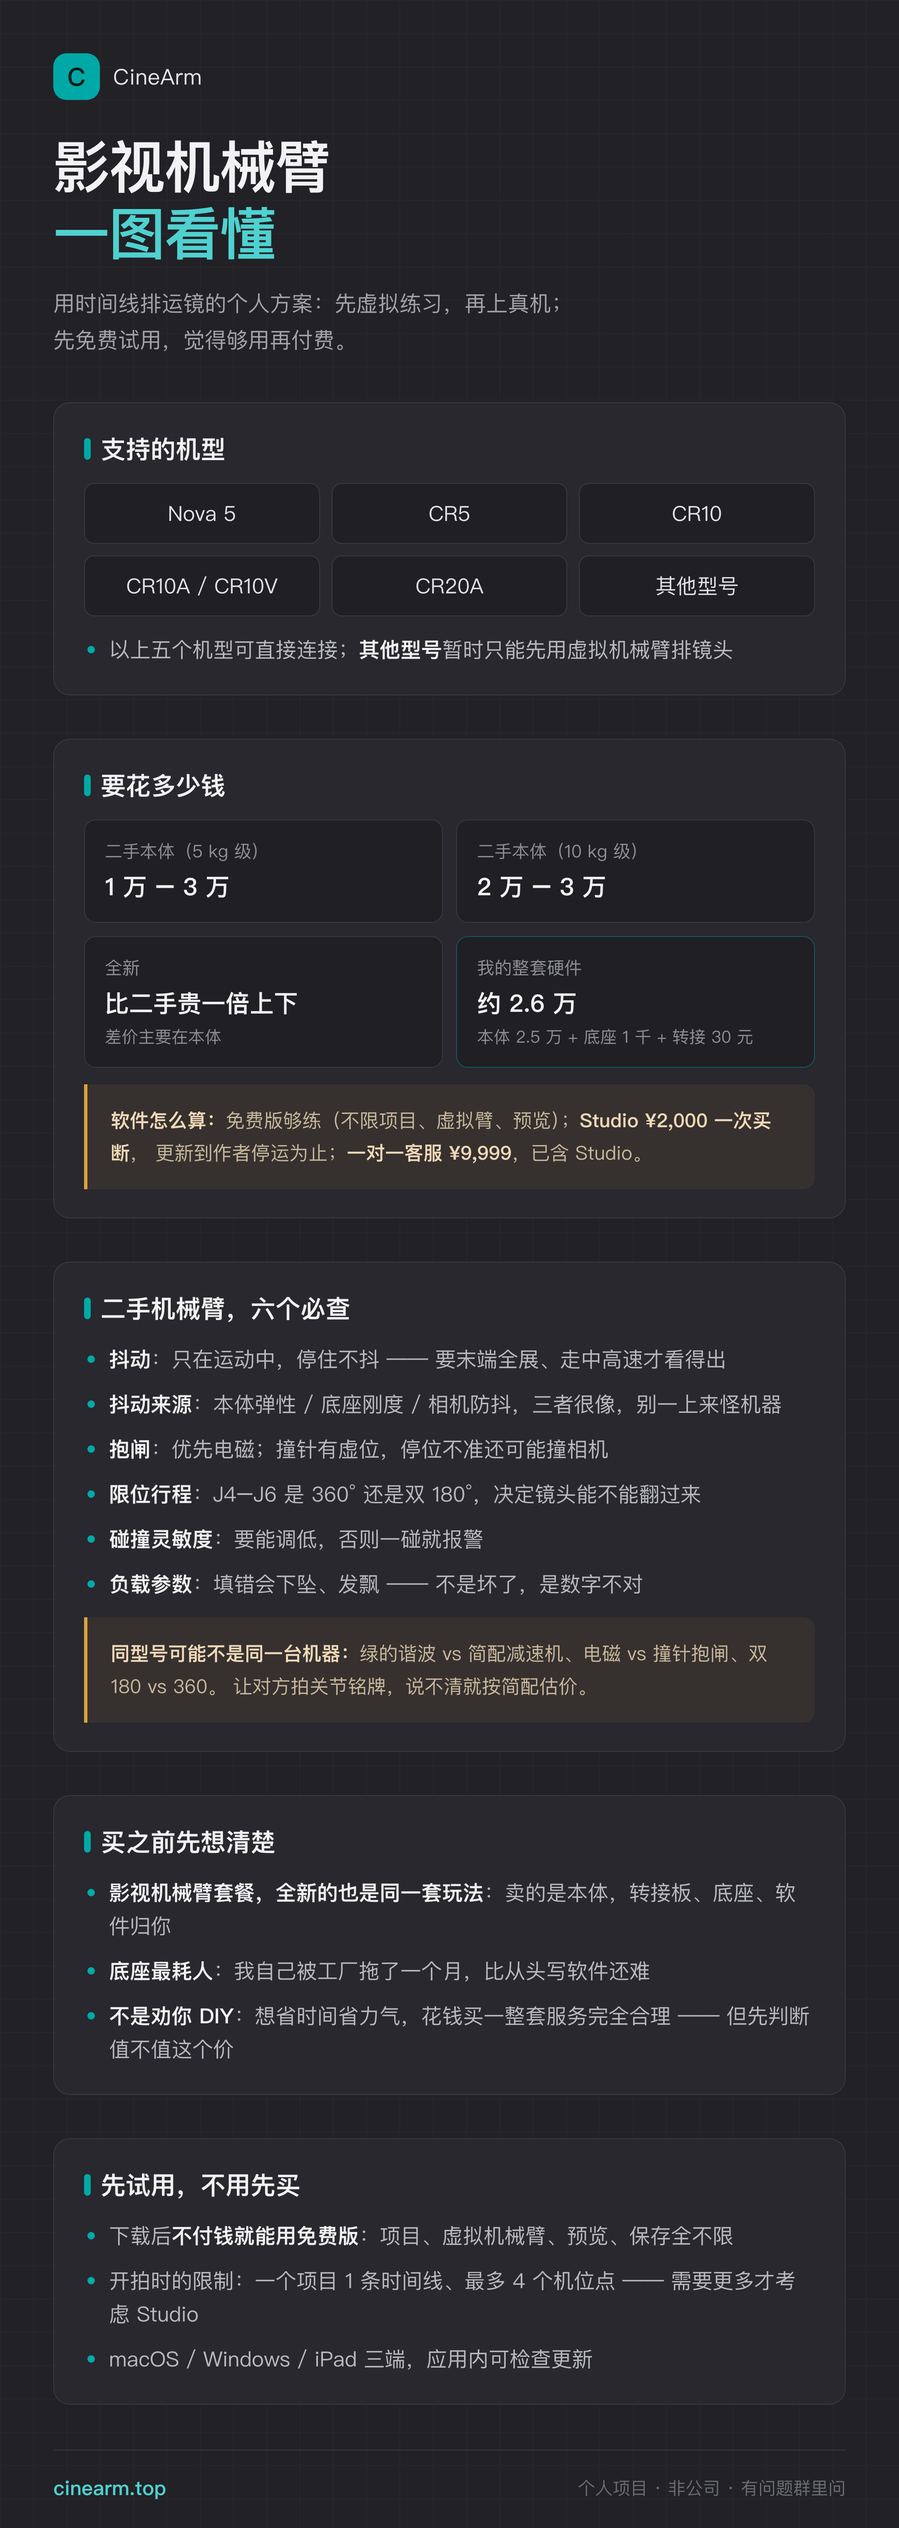
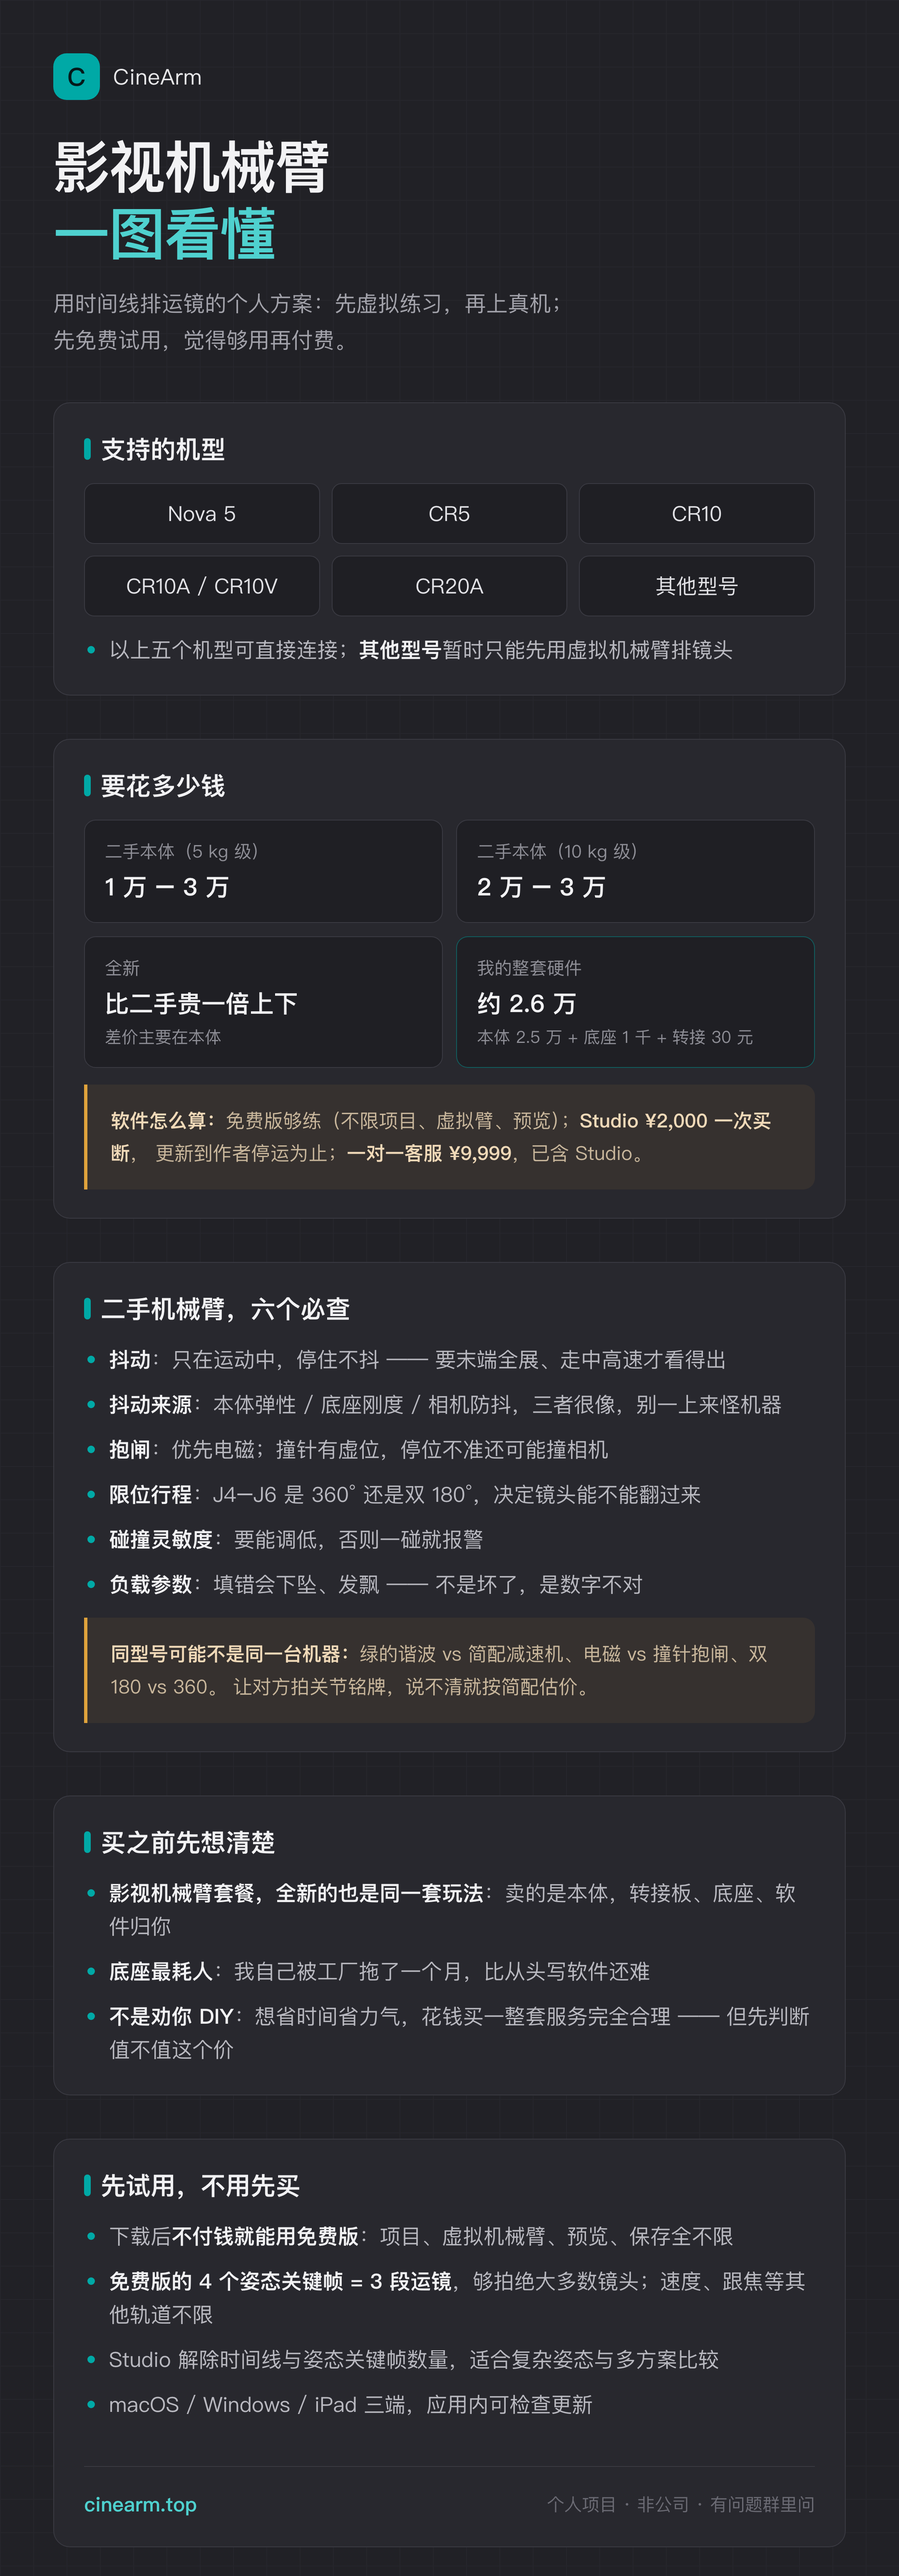
Regenerate one-pager poster with corrected pose-keyframe wording

diff --git a/share-poster.html b/share-poster.html
@@ -108,9 +108,10 @@
     <h2><i></i>先试用，不用先买</h2>
     <ul>
       <li>下载后<b>不付钱就能用免费版</b>：项目、虚拟机械臂、预览、保存全不限</li>
-      <li>开拍时的限制：一个项目 1 条时间线、最多 4 个机位点 —— 需要更多才考虑 Studio</li>
+      <li><b>免费版的 4 个姿态关键帧 = 3 段运镜</b>，够拍绝大多数镜头；速度、跟焦等其他轨道不限</li>
+      <li>Studio 解除时间线与姿态关键帧数量，适合复杂姿态与多方案比较</li>
       <li>macOS / Windows / iPad 三端，应用内可检查更新</li>
-    </ul>
+    </ul
   </div>
 
   <footer>
